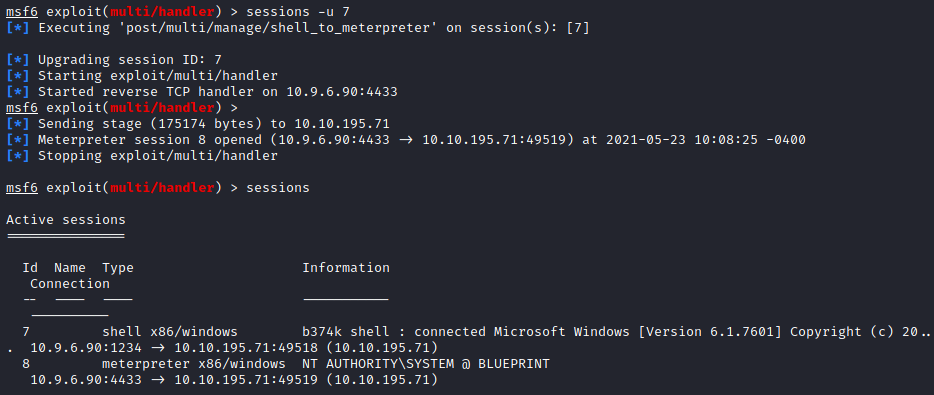
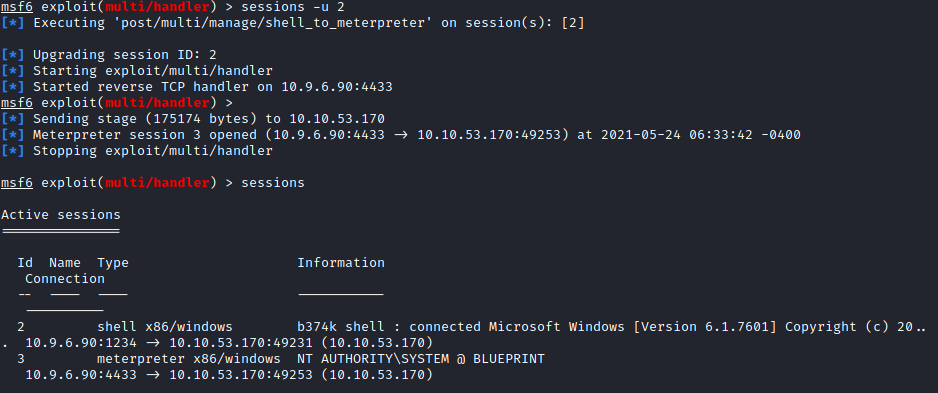
changed ips

diff --git a/_posts/2021-5-23-THM-Blueprint-Writeup.md b/_posts/2021-5-23-THM-Blueprint-Writeup.md
@@ -6,10 +6,10 @@ categories: THM
 ## Introduction
 <img src="/images/THM/Blueprint/banner.PNG" width="800" height="150"/>
 
-In this blog post you will find a writeup for the [Blueprint](https://tryhackme.com/room/blueprint) room on TryHackMe. It's a Windows machine running a vulnerable version of osCommerce, an online store solution. Since this room isn't guided like the other ones, you will find my own steps.
+In this blog post you will find a writeup for the [Blueprint](https://tryhackme.com/room/blueprint) room on TryHackMe. It's a Windows machine running a vulnerable version of osCommerce, an online store solution. Since this room isn't guided like the other ones, you will find my own steps and explanations.
 
 ## Enumeration
-First we fire up nmap to get more info on the machine and find out open ports. The command that I used is ```nmap -sV -sC -Pn 10.10.7.76``` , the option -sV is used to determine service/version info, -sC to use the default script of nmap and -Pn to disable host discovery. The command outputs the following:
+First we fire up nmap to get more info on the machine and find out open ports. The command that I used is ```nmap -sV -sC -Pn 10.10.53.170``` , the option -sV is used to determine service/version info, -sC to use the default script of nmap and -Pn to disable host discovery. The command outputs the following:
 
 <img src="/images/THM/Blueprint/nmap_output.PNG" width="800" height="800"/>
 
@@ -20,11 +20,11 @@ From this output we understand that the following interesting ports are open:
   <li>443</li>
 </ul>
 
-Navigating to http://10.10.7.76 , we get a Server error:
+Navigating to http://10.10.53.170 , we get a Server error:
 
 <img src="/images/THM/Blueprint/server_error.PNG" width="600" height="100"/>
 
-However, navigating to https://10.10.7.76 or 10.10.7.76:8080 we get the following page:
+However, navigating to https://10.10.53.170 or 10.10.53.170:8080 we get the following page:
 
 <img src="/images/THM/Blueprint/oscommerce_page.PNG" width="500" height="150"/>
 
@@ -52,7 +52,7 @@ It looks like we could modify some PHP code in the **http://ipaddress/oscommerce
 
 <img src="/images/THM/Blueprint/exploit_modified.PNG" width="700" height="500"/>
 
-Let's fire up Metasploit and use **/multi/handler** to set up a listener on port 1234, accordingly to my modified script.
+Let's run Metasploit and use **/multi/handler** to set up a listener on port 1234, accordingly to my modified script.
 
 <img src="/images/THM/Blueprint/multihandler.PNG" width="600" height="200"/>
 
@@ -64,7 +64,7 @@ We load **configure.php** as indicated in the output and TADAAA we receive a she
 
 <img src="/images/THM/Blueprint/metasploit_shell.PNG" width="600" height="90"/>
 
-A shell is good but a Meterpreter session is better as it will allow us to run tools. We use the command ```sessions -u 7``` where 7 is our session ID :
+A shell is good but a Meterpreter session is better as it will allow us to run tools. We use the command ```sessions -u 2``` where 2 is our session ID :
 
 <img src="/images/THM/Blueprint/upgrade.PNG" width="600" height="300"/>
 
